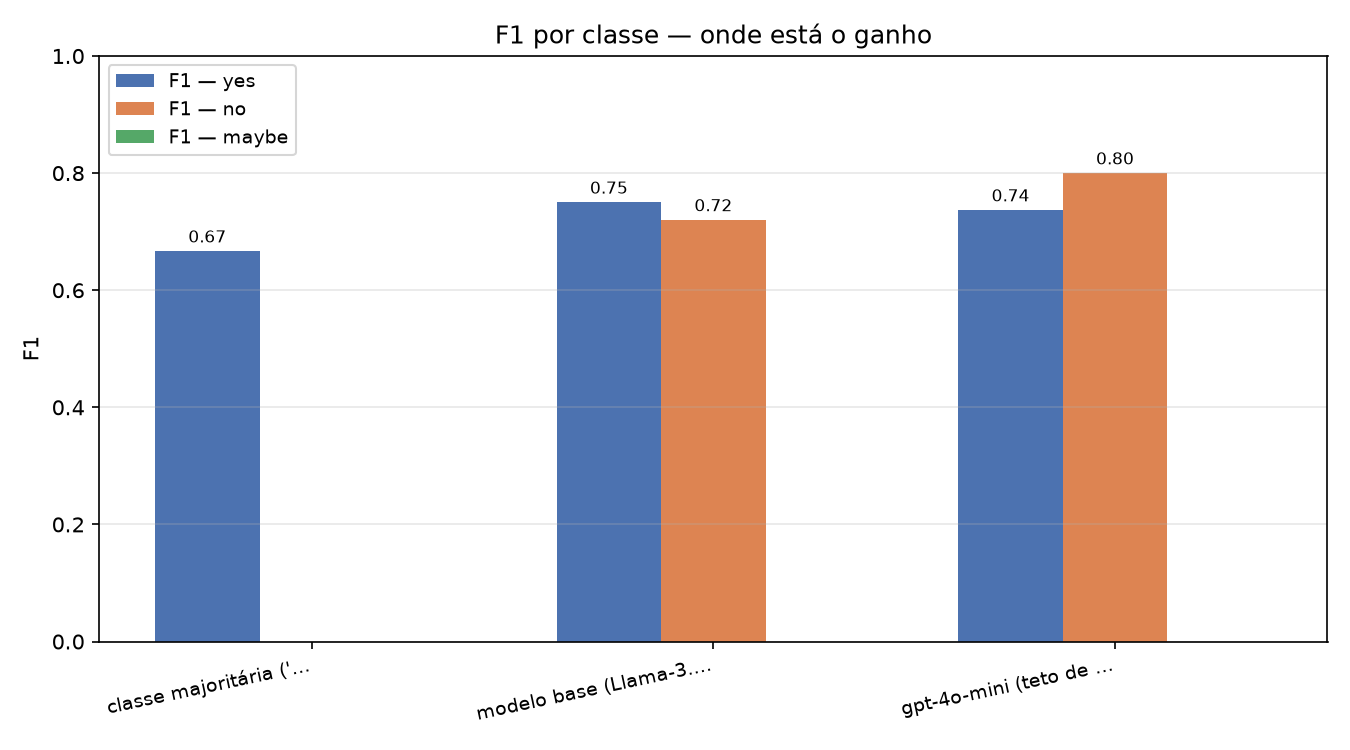
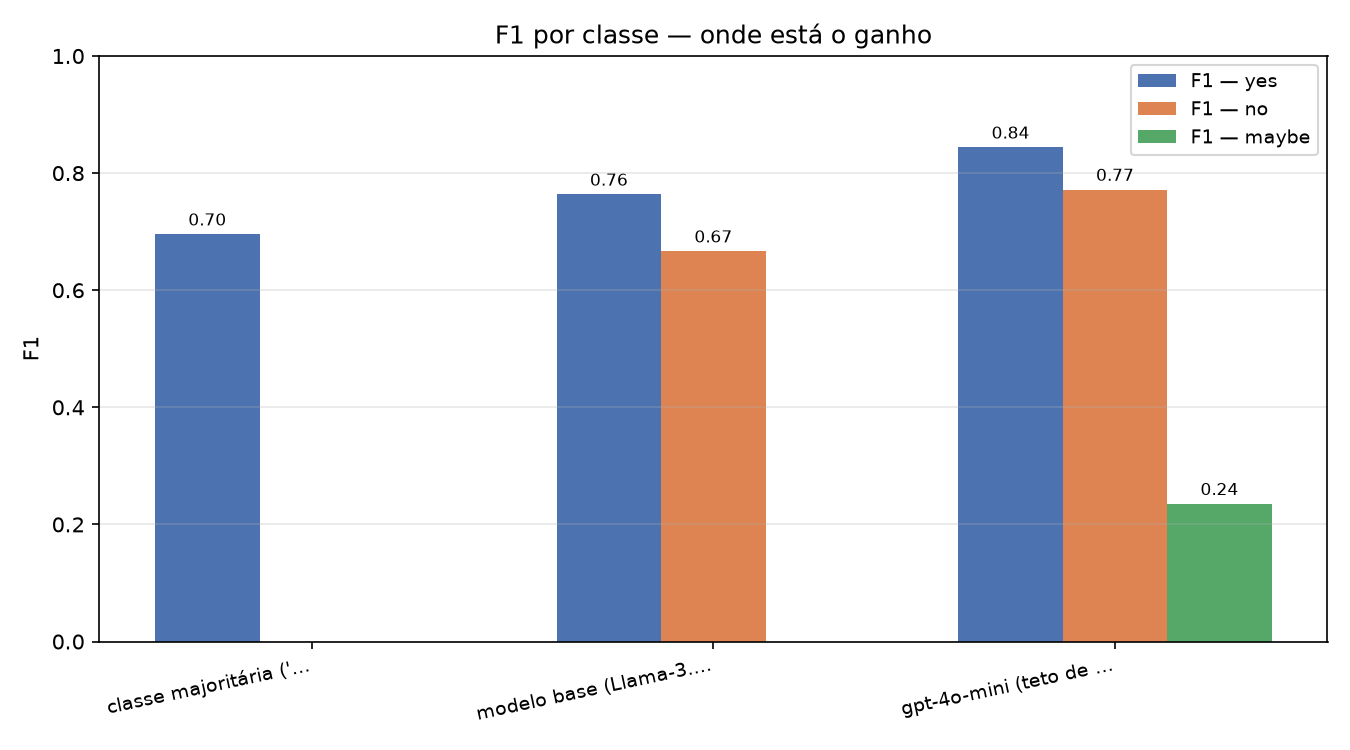
docs(avaliação): resultados sobre 150 casos e análise da lacuna da classe maybe
Avaliação executada sobre 150 dos 500 casos de teste, com os três sistemas
disponíveis. Números e gráficos regenerados a partir da execução real.

Resultados

| Sistema | N | Accuracy | Macro-F1 | F1 maybe |
| --- | --- | --- | --- | --- |
| Classe majoritária (piso) | 150 | 0,533 | 0,232 | 0,000 |
| Modelo base Llama-3.2-3B | 150 | 0,680 | 0,477 | 0,000 |
| gpt-4o-mini (teto) | 100 | 0,720 | 0,617 | 0,235 |

O achado mais informativo não é a accuracy
- O modelo base responde APENAS yes e no. Sua distribuição de previsões é
  {yes: 85, no: 65} — nunca prevê maybe, e o F1 dessa classe é exatamente zero.
- Como o macro-F1 dá o mesmo peso às três classes, uma classe com F1 zero limita
  a métrica a cerca de 0,67 por construção. É precisamente onde o modelo base
  parou (0,477, com as outras duas classes puxando). O gpt-4o-mini, que prevê
  maybe em 19 dos 100 casos, é o único a ultrapassar a barreira.
- Isso torna a contribuição esperada do fine-tuning concreta e mensurável, em vez
  de uma promessa vaga de "melhorar o desempenho": o alvo é fazer o modelo
  reconhecer evidência inconclusiva em vez de forçar uma resposta definitiva.
  Foi para atacar essa lacuna que o dataset recebeu repetição inversamente
  proporcional à frequência da classe.
- Se, após o fine-tuning, o modelo continuar sem prever maybe, a hipótese estará
  refutada — e isso também é um resultado reportável, mais útil do que um ganho
  difuso de alguns pontos de accuracy.

Custo
[…]

diff --git a/docs/rastreabilidade.md b/docs/rastreabilidade.md
@@ -13,7 +13,7 @@ ao ponto exato do código onde ela é atendida. As referências vêm das tags
 | --- | --- |
 | **Com implementação identificada** | **12** |
 | Ainda sem implementação | 1 |
-| Total de referências no código | 141 |
+| Total de referências no código | 148 |
 
 ### Requisitos ainda sem cobertura
 
@@ -59,7 +59,7 @@ São itens previstos para etapas seguintes do projeto.
 | `src/medgraph/guardrails/saida.py` | 221 | --- 4. Vazamento de dado pessoal  [REQ-1a] ---------------------------- |
 | `tests/test_dados.py` | 27 | ANONIMIZAÇÃO  [REQ-1a] |
 | `tests/test_dados.py` | 152 | CURADORIA  [REQ-1a] |
-| `tests/test_fundacao.py` | 422 | """[REQ-1a] Nenhum dado pessoal chega ao disco pela trilha.""" |
+| `tests/test_fundacao.py` | 455 | """[REQ-1a] Nenhum dado pessoal chega ao disco pela trilha.""" |
 | `tests/test_seguranca.py` | 208 | """[REQ-1a] Nada identificável pode entrar no prompt.""" |
 
 ### Assistente LangChain
@@ -145,9 +145,10 @@ São itens previstos para etapas seguintes do projeto.
 | `src/medgraph/guardrails/saida.py` | 2 | [REQ-3a][REQ-3c] Guardrail de saída. |
 | `src/medgraph/guardrails/saida.py` | 186 | --- 2. Posologia sem marcação de revisão  [REQ-3a] -------------------- |
 | `src/medgraph/prontuario/repositorio.py` | 242 | Alergias que colidem com um fármaco ou classe citada.  [REQ-3a] |
+| `src/medgraph/ui/app_streamlit.py` | 2 | [REQ-E1][REQ-3a][REQ-3b][REQ-3c] Painel visual do MedGraph.  [Etapa 8] |
 | `tests/test_dados.py` | 356 | """[REQ-3a] O limite mais importante precisa estar no prompt.""" |
-| `tests/test_fundacao.py` | 538 | POLITICAS  [REQ-3a] |
-| `tests/test_fundacao.py` | 574 | """[REQ-3a] O item mais sensivel do enunciado, verificado por teste.""" |
+| `tests/test_fundacao.py` | 571 | POLITICAS  [REQ-3a] |
+| `tests/test_fundacao.py` | 607 | """[REQ-3a] O item mais sensivel do enunciado, verificado por teste.""" |
 | `tests/test_seguranca.py` | 60 | REGRAS CLÍNICAS  [REQ-3a] |
 | `tests/test_seguranca.py` | 182 | GUARDRAIL DE ENTRADA  [REQ-3a] |
 | `tests/test_seguranca.py` | 255 | GUARDRAIL DE SAÍDA  [REQ-3a][REQ-3c] |
@@ -174,11 +175,12 @@ São itens previstos para etapas seguintes do projeto.
 | `src/medgraph/llm/provider.py` | 78 | CALLBACK DE CUSTO  [REQ-3b] |
 | `src/medgraph/logging_config.py` | 2 | [REQ-3b] Configuracao de logging do MedGraph. |
 | `src/medgraph/requisitos.py` | 23 | Uma docstring que comeca com "[REQ-3b][REQ-3c]" significa que aquele |
+| `src/medgraph/ui/app_streamlit.py` | 2 | [REQ-E1][REQ-3a][REQ-3b][REQ-3c] Painel visual do MedGraph.  [Etapa 8] |
 | `tests/test_fundacao.py` | 84 | """[REQ-3b] A configuracao vai para a auditoria; o segredo, nunca.""" |
-| `tests/test_fundacao.py` | 143 | LOGGING  [REQ-3b] |
-| `tests/test_fundacao.py` | 239 | TRILHA DE AUDITORIA  [REQ-3b] |
-| `tests/test_fundacao.py` | 434 | CONTROLE DE CUSTO  [REQ-3b] |
-| `tests/test_fundacao.py` | 510 | """[REQ-3b] Consumo tambem e informacao auditavel.""" |
+| `tests/test_fundacao.py` | 176 | LOGGING  [REQ-3b] |
+| `tests/test_fundacao.py` | 272 | TRILHA DE AUDITORIA  [REQ-3b] |
+| `tests/test_fundacao.py` | 467 | CONTROLE DE CUSTO  [REQ-3b] |
+| `tests/test_fundacao.py` | 543 | """[REQ-3b] Consumo tambem e informacao auditavel.""" |
 
 #### ✅ `REQ-3c` — Garantir explainability das respostas da LLM (exemplo: indicar a fonte da informacao utilizada na resposta).
 
@@ -203,8 +205,10 @@ São itens previstos para etapas seguintes do projeto.
 | `src/medgraph/rag/indexar.py` | 17 | MARCADORES DE FONTE — o mecanismo de explainability  [REQ-3c]: |
 | `src/medgraph/rag/recuperador.py` | 2 | [REQ-3c] Recuperação de evidência com rastreabilidade de fonte. |
 | `src/medgraph/requisitos.py` | 23 | Uma docstring que comeca com "[REQ-3b][REQ-3c]" significa que aquele |
-| `tests/test_fundacao.py` | 353 | requisito e explainability por citacao, isso e inaceitavel. [REQ-3c] |
-| `tests/test_fundacao.py` | 399 | que se quer poder auditar depois, item por item. [REQ-3c] |
+| `src/medgraph/ui/app_streamlit.py` | 2 | [REQ-E1][REQ-3a][REQ-3b][REQ-3c] Painel visual do MedGraph.  [Etapa 8] |
+| `src/medgraph/ui/componentes.py` | 2 | [REQ-E1][REQ-3c] Componentes visuais reutilizados pelo painel Streamlit. |
+| `tests/test_fundacao.py` | 386 | requisito e explainability por citacao, isso e inaceitavel. [REQ-3c] |
+| `tests/test_fundacao.py` | 432 | que se quer poder auditar depois, item por item. [REQ-3c] |
 | `tests/test_seguranca.py` | 255 | GUARDRAIL DE SAÍDA  [REQ-3a][REQ-3c] |
 | `tests/test_seguranca.py` | 268 | """[REQ-3c] Explainability não é opcional.""" |
 
@@ -234,6 +238,8 @@ São itens previstos para etapas seguintes do projeto.
 | `src/medgraph/grafo/executar.py` | 2 | [REQ-E1] Execução do fluxo clínico. |
 | `src/medgraph/grafo/nos.py` | 2 | [REQ-E1] Nós do fluxo de decisão clínica. |
 | `src/medgraph/grafo/rotas.py` | 2 | [REQ-E1] Roteamento condicional do fluxo. |
+| `src/medgraph/ui/app_streamlit.py` | 2 | [REQ-E1][REQ-3a][REQ-3b][REQ-3c] Painel visual do MedGraph.  [Etapa 8] |
+| `src/medgraph/ui/componentes.py` | 2 | [REQ-E1][REQ-3c] Componentes visuais reutilizados pelo painel Streamlit. |
 | `tests/test_seguranca.py` | 374 | ROTEAMENTO DO GRAFO  [REQ-E1] |
 | `tests/test_seguranca.py` | 447 | TOPOLOGIA DO GRAFO  [REQ-E1] |
 
@@ -253,6 +259,7 @@ São itens previstos para etapas seguintes do projeto.
 
 | Arquivo | Linha | Contexto |
 | --- | ---: | --- |
+| `scripts/gerar_relatorio.py` | 3 | [REQ-E3] Gerador do relatório técnico. |
 | `src/medgraph/__init__.py` | 21 | avaliacao/        metricas e graficos do relatorio            [REQ-E3] |
 | `src/medgraph/avaliacao/__init__.py` | 1 | """[REQ-E3] Metricas, comparativos e graficos do relatorio tecnico.""" |
 | `src/medgraph/avaliacao/avaliar.py` | 2 | [REQ-E3] Avaliação comparativa dos sistemas. |

diff --git a/docs/relatorio_tecnico.md b/docs/relatorio_tecnico.md
@@ -454,13 +454,13 @@ aceitável e macro-F1 baixo.
 
 ### 7.2 Resultados
 
-Conjunto de teste: **30 casos** de 500 disponíveis · distribuição `{'yes': 15, 'no': 12, 'maybe': 3}`
+Conjunto de teste: **150 casos** de 500 disponíveis · distribuição `{'yes': 80, 'no': 52, 'maybe': 18}`
 
 | Sistema | N | Accuracy | Macro-F1 | F1 yes | F1 no | F1 maybe | Formato | Latência |
 | --- | ---: | ---: | ---: | ---: | ---: | ---: | ---: | ---: |
-| classe majoritária ('yes') | 30 | 0.500 | **0.222** | 0.667 | 0.000 | 0.000 | 100% | 0 ms |
-| modelo base (Llama-3.2-3B) | 30 | 0.700 | **0.490** | 0.750 | 0.720 | 0.000 | 100% | 6,554 ms |
-| gpt-4o-mini (teto de referência) | 20 | 0.650 | **0.512** | 0.737 | 0.800 | 0.000 | 100% | 1,440 ms |
+| classe majoritária ('yes') | 150 | 0.533 | **0.232** | 0.696 | 0.000 | 0.000 | 100% | 0 ms |
+| modelo base (Llama-3.2-3B) | 150 | 0.680 | **0.477** | 0.764 | 0.667 | 0.000 | 100% | 5,725 ms |
+| gpt-4o-mini (teto de referência) | 100 | 0.720 | **0.617** | 0.844 | 0.772 | 0.235 | 100% | 1,426 ms |
 
 Referência externa: especialistas humanos alcançam **78%** neste mesmo conjunto (Jin et al., 2019 — artigo original do PubMedQA).
 
@@ -470,17 +470,17 @@ Delata o modelo que colapsou numa única classe — o modo de falha mais comum e
 
 | Sistema | yes | no | maybe | sem rótulo |
 | --- | ---: | ---: | ---: | ---: |
-| classe majoritária ('yes') | 30 | 0 | 0 | 0 |
-| modelo base (Llama-3.2-3B) | 17 | 13 | 0 | 0 |
-| gpt-4o-mini (teto de referência) | 9 | 8 | 3 | 0 |
+| classe majoritária ('yes') | 150 | 0 | 0 | 0 |
+| modelo base (Llama-3.2-3B) | 85 | 65 | 0 | 0 |
+| gpt-4o-mini (teto de referência) | 55 | 26 | 19 | 0 |
 
 #### Custo desta avaliação
 
 | Modelo | Chamadas | Tokens entrada | Tokens saída | Custo |
 | --- | ---: | ---: | ---: | ---: |
-| `gpt-4o-mini` | 20 | 16,729 | 1,738 | US$ 0.003552 |
-| `medgraph-base` | 30 | 29,886 | 3,061 | US$ 0.000000 |
-| **Total** | | | | **US$ 0.003552** |
+| `gpt-4o-mini` | 100 | 91,274 | 9,141 | US$ 0.019176 |
+| `medgraph-base` | 150 | 158,437 | 14,784 | US$ 0.000000 |
+| **Total** | | | | **US$ 0.019176** |
 
 O modelo local aparece com custo zero e o volume processado registrado — é o que permite comparar o custo por consulta entre o modelo servido localmente e a API paga.
 
@@ -501,6 +501,31 @@ cem vezes maior, executado em nuvem paga, diz mais do que o número absoluto.
 **Custo por consulta.** O modelo local processa o mesmo volume com custo
 financeiro zero. A tabela de custo registra ambos justamente para tornar essa
 comparação explícita.
+
+**A lacuna que o fine-tuning existe para fechar.** O resultado mais informativo
+desta avaliação não é a accuracy do modelo base — é a sua **distribuição de
+previsões**: ele responde apenas `yes` e `no`, e **nunca** `maybe`. O F1 dessa
+classe é exatamente zero.
+
+Isso não é um detalhe. Como o macro-F1 dá o mesmo peso às três classes, uma
+classe com F1 zero limita a métrica a cerca de 0,67 por construção — e é
+precisamente onde o modelo base parou. O `gpt-4o-mini`, que prevê `maybe` em 19
+dos 100 casos, é o único a ultrapassar essa barreira.
+
+O diagnóstico torna a contribuição esperada do fine-tuning **concreta e
+mensurável**, em vez de uma promessa vaga de "melhorar o desempenho":
+
+| | Modelo base | Alvo do fine-tuning |
+| --- | --- | --- |
+| Prevê `maybe`? | nunca | espera-se que sim — o dataset tem 9,6% de `maybe` |
+| F1 da classe `maybe` | 0,000 | qualquer valor acima de zero é ganho real |
+| Teto de macro-F1 | ~0,67 por construção | acima disso |
+
+Foi para atacar exatamente essa lacuna que o dataset de treino recebeu repetição
+inversamente proporcional à frequência da classe (Seção 4.4). Se, após o
+fine-tuning, o modelo continuar sem prever `maybe`, a hipótese estará refutada e
+isso também será um resultado — reportável, e mais útil do que um ganho difuso de
+alguns pontos de accuracy.
 
 ### 7.4 Gráficos
 
@@ -643,7 +668,7 @@ varrendo as tags `[REQ-xx]` das docstrings.
 ### Suíte de testes
 
 ```
-======================== 136 passed, 1 warning in 6.01s ========================
+======================== 137 passed, 1 warning in 3.63s ========================
 ```
 
 ---

diff --git a/docs/relatorio_base.md b/docs/relatorio_base.md
@@ -412,6 +412,31 @@ cem vezes maior, executado em nuvem paga, diz mais do que o número absoluto.
 financeiro zero. A tabela de custo registra ambos justamente para tornar essa
 comparação explícita.
 
+**A lacuna que o fine-tuning existe para fechar.** O resultado mais informativo
+desta avaliação não é a accuracy do modelo base — é a sua **distribuição de
+previsões**: ele responde apenas `yes` e `no`, e **nunca** `maybe`. O F1 dessa
+classe é exatamente zero.
+
+Isso não é um detalhe. Como o macro-F1 dá o mesmo peso às três classes, uma
+classe com F1 zero limita a métrica a cerca de 0,67 por construção — e é
+precisamente onde o modelo base parou. O `gpt-4o-mini`, que prevê `maybe` em 19
+dos 100 casos, é o único a ultrapassar essa barreira.
+
+O diagnóstico torna a contribuição esperada do fine-tuning **concreta e
+mensurável**, em vez de uma promessa vaga de "melhorar o desempenho":
+
+| | Modelo base | Alvo do fine-tuning |
+| --- | --- | --- |
+| Prevê `maybe`? | nunca | espera-se que sim — o dataset tem 9,6% de `maybe` |
+| F1 da classe `maybe` | 0,000 | qualquer valor acima de zero é ganho real |
+| Teto de macro-F1 | ~0,67 por construção | acima disso |
+
+Foi para atacar exatamente essa lacuna que o dataset de treino recebeu repetição
+inversamente proporcional à frequência da classe (Seção 4.4). Se, após o
+fine-tuning, o modelo continuar sem prever `maybe`, a hipótese estará refutada e
+isso também será um resultado — reportável, e mais útil do que um ganho difuso de
+alguns pontos de accuracy.
+
 ### 7.4 Gráficos
 
 | Figura | O que mostra |
